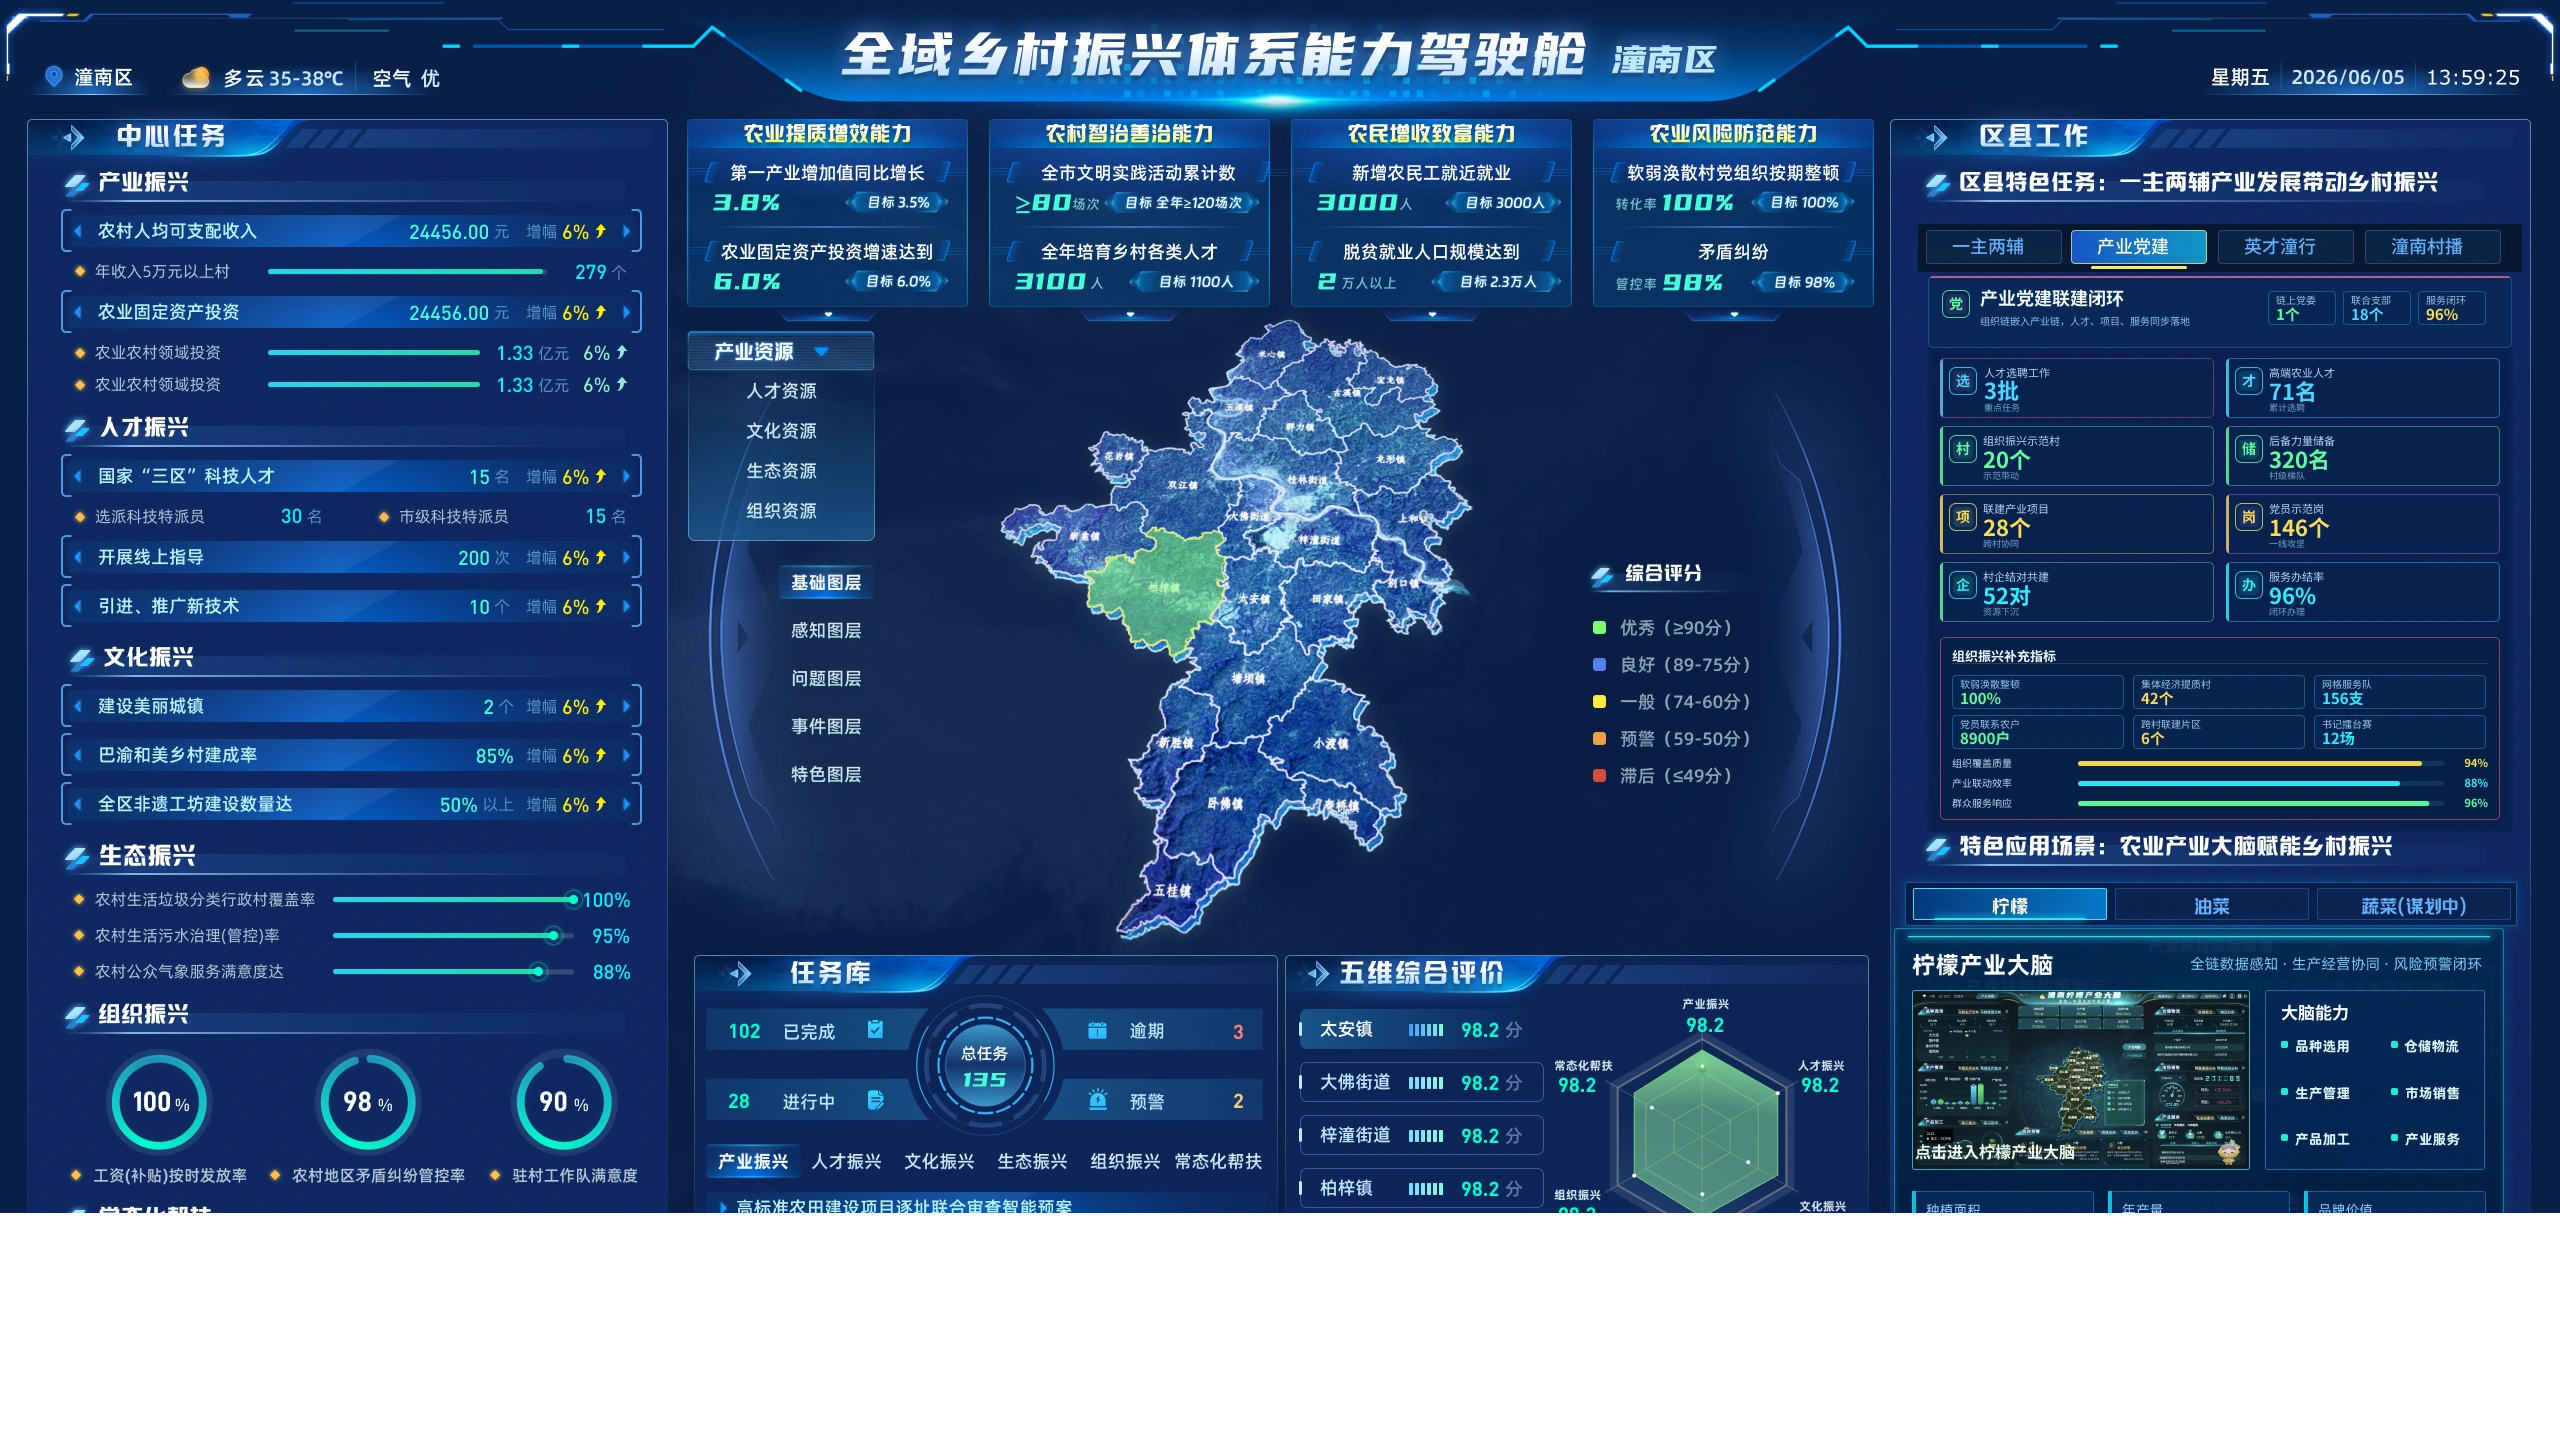
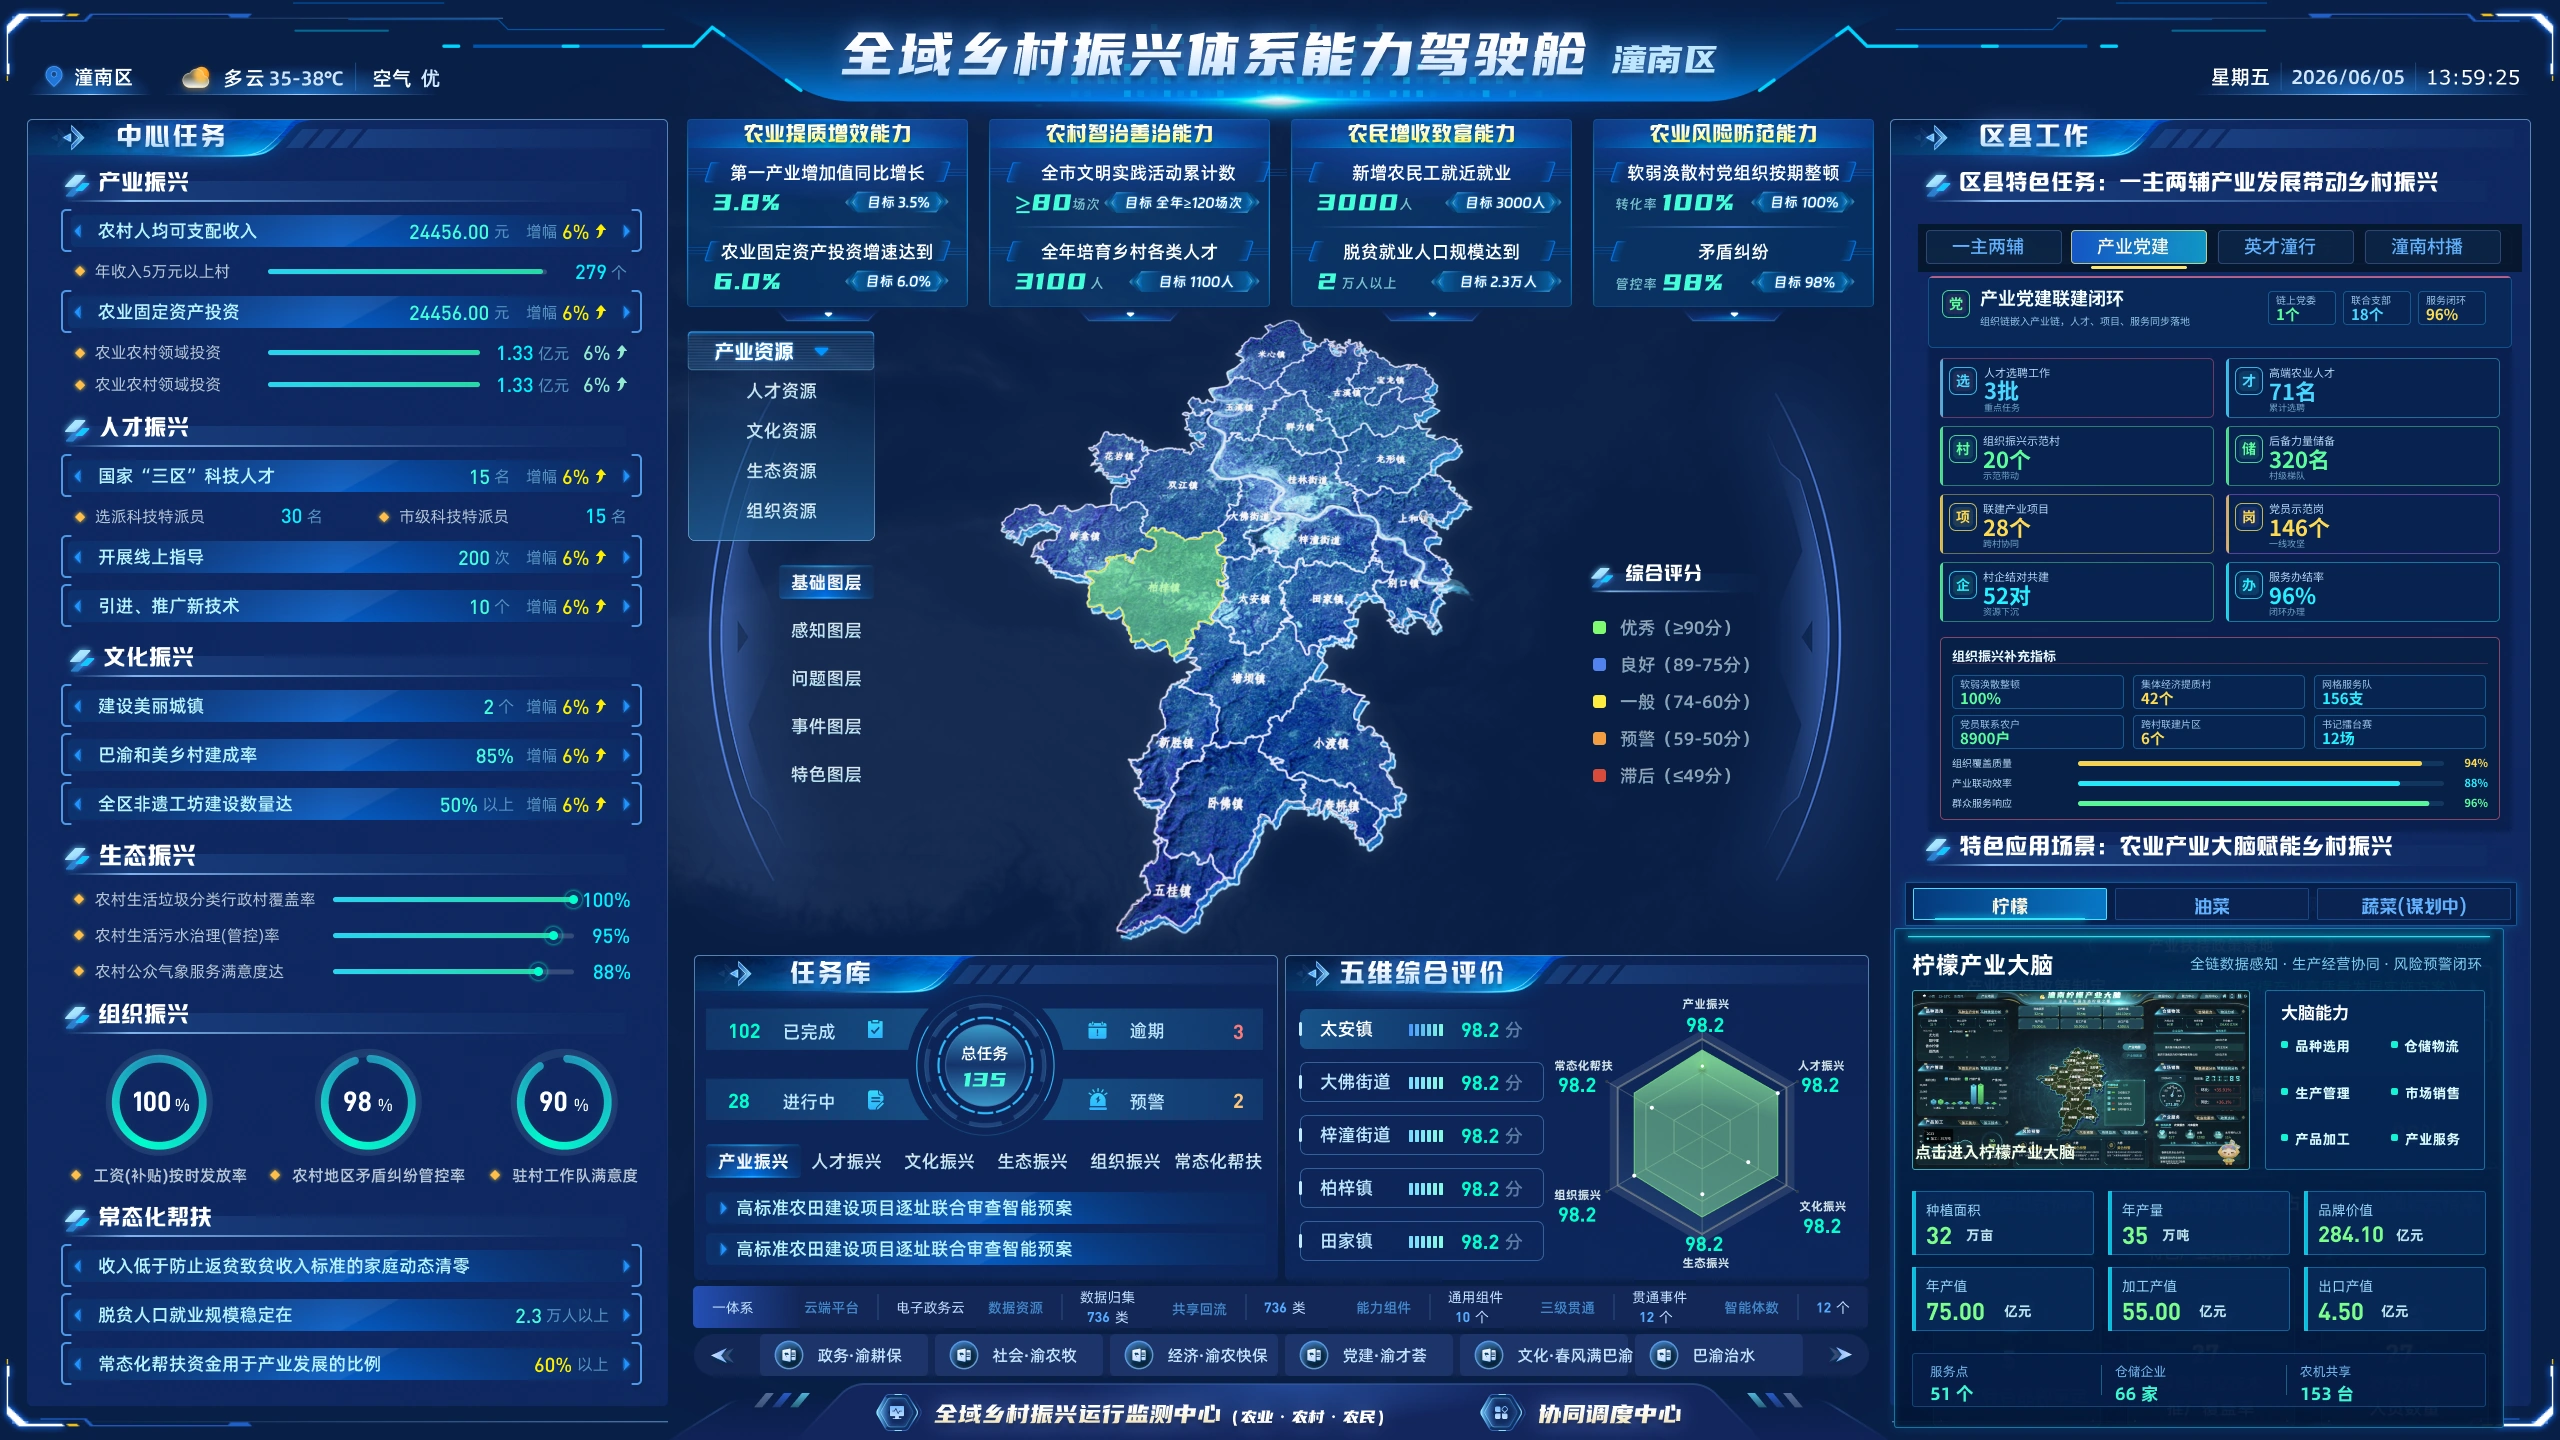
Add files via upload

Changed region(s): [[0.0, 0.8438, 1.0, 1.0]]

diff --git a/app.js b/app.js
@@ -1,5 +1,5 @@
 const ASSET = "./assets/";
-const ASSET_VERSION = "20260615-modalfix";
+const ASSET_VERSION = "20260616-effect-modal";
 
 function assetUrl(file) {
   return `${ASSET}${file}?v=${ASSET_VERSION}`;
@@ -158,6 +158,15 @@ const BAIZI_MODALS = {
   futureOrchard: { image: "modal-baizi-future-orchard.webp", w: 820, h: 560 },
 };
 
+const LEMON_SCENE_MODALS = {
+  effectEvaluation: {
+    image: "modal-lemon-effect-evaluation.webp",
+    w: 1174,
+    h: 832,
+    closeBox: { x: 1101, y: 12, w: 58, h: 37 },
+  },
+};
+
 const ASSISTANT_MODALS = {
   growth: {
     image: "modal-assistant-growth.webp",
@@ -304,6 +313,9 @@ function renderLemonSceneHotspots() {
   BAIZI_KPI_BOXES.forEach((box) => {
     makeButton(box, `open Baizi KPI modal ${box.modal}`, () => showModal("baizi", box.modal));
   });
+  makeButton({ x: 2431, y: 1060, w: 65, h: 22 }, "open lemon effect evaluation", () =>
+    showModal("lemonScene", "effectEvaluation"),
+  );
   makeButton({ x: 1641, y: 825, w: 230, h: 209 }, "open lemon assistant", () => showModal("assistant", "growth"));
   makeButton({ x: 2053, y: 58, w: 138, h: 40 }, "return to Baizi platform", () => showScene("baizi-platform"));
 }
@@ -336,7 +348,7 @@ function showModal(type, id) {
       makeButton(tab, `assistant tab ${tab.to}`, () => showModal("assistant", tab.to), modal, "modal-hotspot");
     });
   } else {
-    makeButton({ x: config.w - 60, y: 14, w: 48, h: 48 }, "close modal", clearModal, modal, "modal-hotspot");
+    makeButton(config.closeBox || { x: config.w - 60, y: 14, w: 48, h: 48 }, "close modal", clearModal, modal, "modal-hotspot");
     if (config.tabs) {
       config.tabs.forEach((tab) => {
         makeButton(tab, `modal detail ${tab.to}`, () => showModal(type, tab.to), modal, "modal-hotspot");
@@ -348,6 +360,7 @@ function showModal(type, id) {
 function getModalConfig(type, id) {
   if (type === "kpi") return KPI_MODALS[id];
   if (type === "baizi") return BAIZI_MODALS[id];
+  if (type === "lemonScene") return LEMON_SCENE_MODALS[id];
   if (type === "assistant") return ASSISTANT_MODALS[id];
   return null;
 }

diff --git a/index.html b/index.html
@@ -14,6 +14,6 @@
         <div id="modalLayer" aria-hidden="true"></div>
       </section>
     </main>
-    <script src="./app.js"></script>
+    <script src="./app.js?v=20260616-effect-modal"></script>
   </body>
 </html>